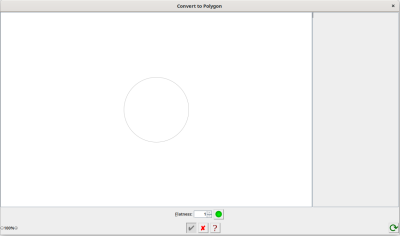
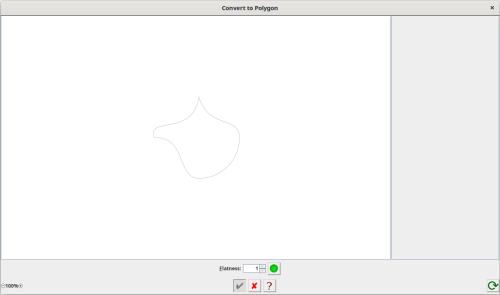
changed polygon examples and added path xor section

Changed region(s): [[0.0, 0.8602, 1.0, 1.0], [0.0, 0.0, 1.0, 0.0593], [0.42, 0.8898, 0.57, 0.9492]]

diff --git a/src/doc/en/flowframtk-main.tex b/src/doc/en/flowframtk-main.tex
@@ -5703,7 +5703,7 @@ reversed so the text starts from the other end.}
 If you want to convert a single \gls{curve} segment to a single
 line segment, you can simply enable \editpathmode, and use the 
 \menu{editpath.convert_to_line} item from the popup menu.
-However, if you want to replace all curves with one or more straight
+However, if you want to replace every curve with one or more straight
 lines then you may prefer to use the \transformfn{convert_to_polygon}
 function.
 
@@ -5721,15 +5721,20 @@ There is a maximum limit of 1024 replacement line segments per
 \end{information}
 
 First \select\ the \gls{shape} with \glspl{curve} that need to be transformed.
-For example, in \figureref{fig:selectedcircle} a circle created with
-the \tool{ellipse} has been selected.
+For example, in \figureref{fig:converttopolygona} a closed \gls{path}
+with four \gls{curve} segments has been selected.
 
 \FloatSubFigs{fig:converttopolygon}
 {
-  {fig:selectedcircle}{\includeimg{selectedcircle}}{Before},
-  {fig:selectedpolygon}{\includeimg{selectedpolygon}}{After}
+  {fig:converttopolygona}{\includeimg{converttopolygona}}{},
+  {fig:converttopolygonb}{\includeimg{converttopolygonb}}{}
 }
-{Converting a Shape With Curves to a Polygon}
+[Converting a Shape With Curves to a Polygon]
+{Converting a shape with curves to a polygon:
+\subfigref{fig:converttopolygona} original shape with four
+curve segments;
+\subfigref{fig:converttopolygonb} converted shape (flatness 4.0) 
+with fourteen line segments.}
 
 
 \widgetdef{polygon.title}
@@ -5737,7 +5742,7 @@ the \tool{ellipse} has been selected.
 The \menu{transform.convert_to_polygon} menu item will open the
 \dialog{polygon} dialog, shown in \figureref{fig:polygondialog}.
 This will show a draft outline of the selected shape (in this case,
-the circle from \figureref{fig:selectedcircle}).
+the shape from \figureref{fig:converttopolygona}).
 
 \FloatFig{fig:polygondialog}
 {\includeimg{polygondialog}}
@@ -5746,7 +5751,7 @@ the circle from \figureref{fig:selectedcircle}).
 \widgetdef{polygon.flatness}
 
 The \widget{polygon.flatness} numeric field should be set to the
-flatness parameter. This is the maximum allowable distance
+flatness parameter. This is the maximum allowable distance (in \gls{bp})
 between the \glspl{controlpt} and the flattened \gls{curve}. A small
 value will create a series of line segments that are as close to the
 original curve as possible. This may result in many short line
@@ -5777,7 +5782,7 @@ parameter and click on the \widget{polygon.dotask} button again.
 For example, I changed the flatness to 4 and recalculated. This
 produced the polygon shown in \figureref{fig:polygondialog2} which
 has fewer line segments with a greater deviation from the original
-circle.
+shape.
 
 \FloatFig{fig:polygondialog2}
 {\includeimg{polygondialog2}}
@@ -5790,17 +5795,17 @@ selected shape with the \widget{polygon.reload} button.
 There is also a zoom widget on the bottom left which can be used to
 adjust the magnification.
 
+If you want to replace the selected path with the
+calculated polygon, click on the \widget{okay} button.  For example,
+\figureref{fig:converttopolygonb} is the result with the flatness set
+to 4. Note that this new polygonal shape has more segments that the 
+original curving shape.
 
 \begin{information}
 The \widget{okay} button is only enabled once a polygon has been
-calculated.
-\end{information}
-
-If you want to replace the selected path with the
-calculated polygon, click on the \widget{okay} button.  For example,
-\figureref{fig:selectedpolygon} is the result with the flatness set
-to 4. If you change you mind you can click on the \widget{cancel}
+calculated. If you change you mind you can click on the \widget{cancel}
 button to discard the draft. You will be prompted for confirmation.
+\end{information}
 
 
 \section{Affine Transformations}\label{sec:affinetrans}
@@ -6333,9 +6338,52 @@ path; \subfigref{fig:patternunionc} result shown in edit mode.}
 
 \menudef{menu.transform.xor}
 
-\inlineglsdef{cag.xor}
+Area \inlineglsdef{cag.xor} can be performed on \glspl{shape} with
+the \menu{transform.xor} menu item. That is, multiple \glspl{shape}
+can be combined into a single \gls*{shape} by performing an
+\gls{cag.xor} operation on all the selected \glspl*{shape}.  At
+least two \glspl*{shape} must be selected to perform this function.
+As with the \hyperref[sec:merging]{merge path function}, the new
+\gls*{shape} has the same styles as the \glslink{back}{backmost}
+path in the selection and \glspl{pattern} will be converted to full
+\glspl{path}.
 
-TODO
+For example, in \figureref{fig:xorpatha}, there are three
+overlapping paths.  The rear path has a non-zero winding rule. In
+\figureref{fig:xorpathb} the paths have been replaced by a
+single path created using the \transformfn{xor} function. For comparison,
+the same three paths in \figureref{fig:xorpatha} were replaced
+using the \hyperref[sec:merging]{merge function}. The result is
+shown in \figureref{fig:xorpathc}. Both paths in
+\figureref{fig:xorpathb} and \figureref{fig:xorpathc} use
+a non-zero winding rule, since that was used by the rear path in
+\figureref{fig:xorpatha}.
+
+\FloatSubFigs*{fig:xorpath}
+{
+ {fig:xorpatha}{\includeimg{geom}}{},
+ {fig:xorpathb}{\includeimg{xorpaths}}{},
+ {fig:xorpathc}{\includeimg{geommerge}}{}
+}
+[Exclusive OR Function]
+{Exclusive OR function: 
+\subfigref{fig:xorpatha} original paths (the rear path has 
+a non-zero winding rule, orchid
+fill \manmsg{colour} and round join style);
+\subfigref{fig:xorpathb} the three paths in
+\subfigref{fig:xorpatha} have been replaced by 
+a single path using the exclusive OR function; 
+\subfigref{fig:xorpathc} for comparison, the three paths in
+\subfigref{fig:xorpatha} have been replaced by 
+a single path using the merge paths function.}
+
+\seealsorefs{
+ sec:mergepaths,
+ sec:pathunion,
+ sec:pathintersect,
+ sec:pathsubtract,
+ sec:reversing
+}
 
 
 \subsection{Path Intersection}\label{sec:pathintersect}
